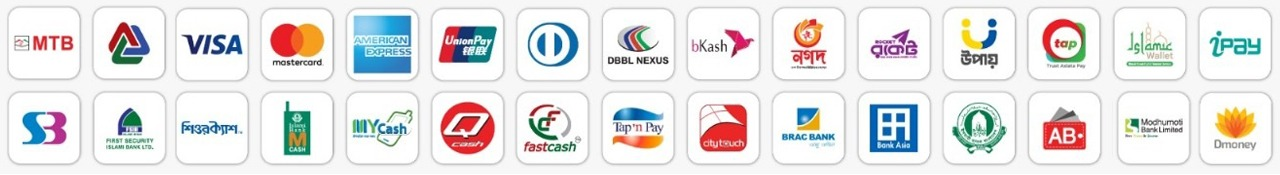
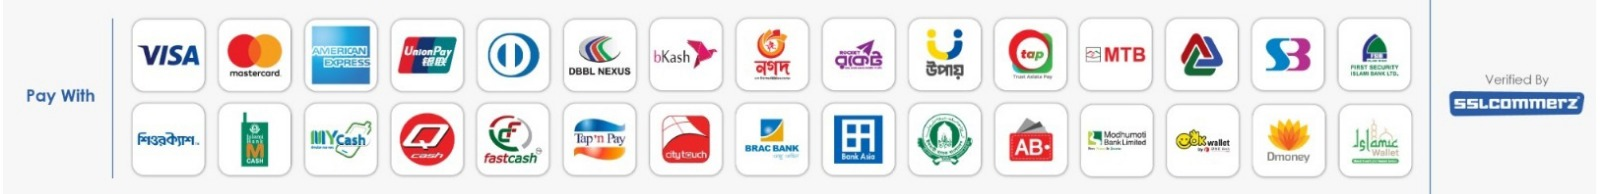
updated mobile navbar and footer payment image

diff --git a/FlyNest.App/wwwroot/css/style.css b/FlyNest.App/wwwroot/css/style.css
@@ -2522,11 +2522,7 @@ Bacic Setup End
                 opacity: .6;
             }
 
-.payment-way img {
-    height: 100px;
-    width: 100%;
-   
-}
+
 
 /*
    Footer End
